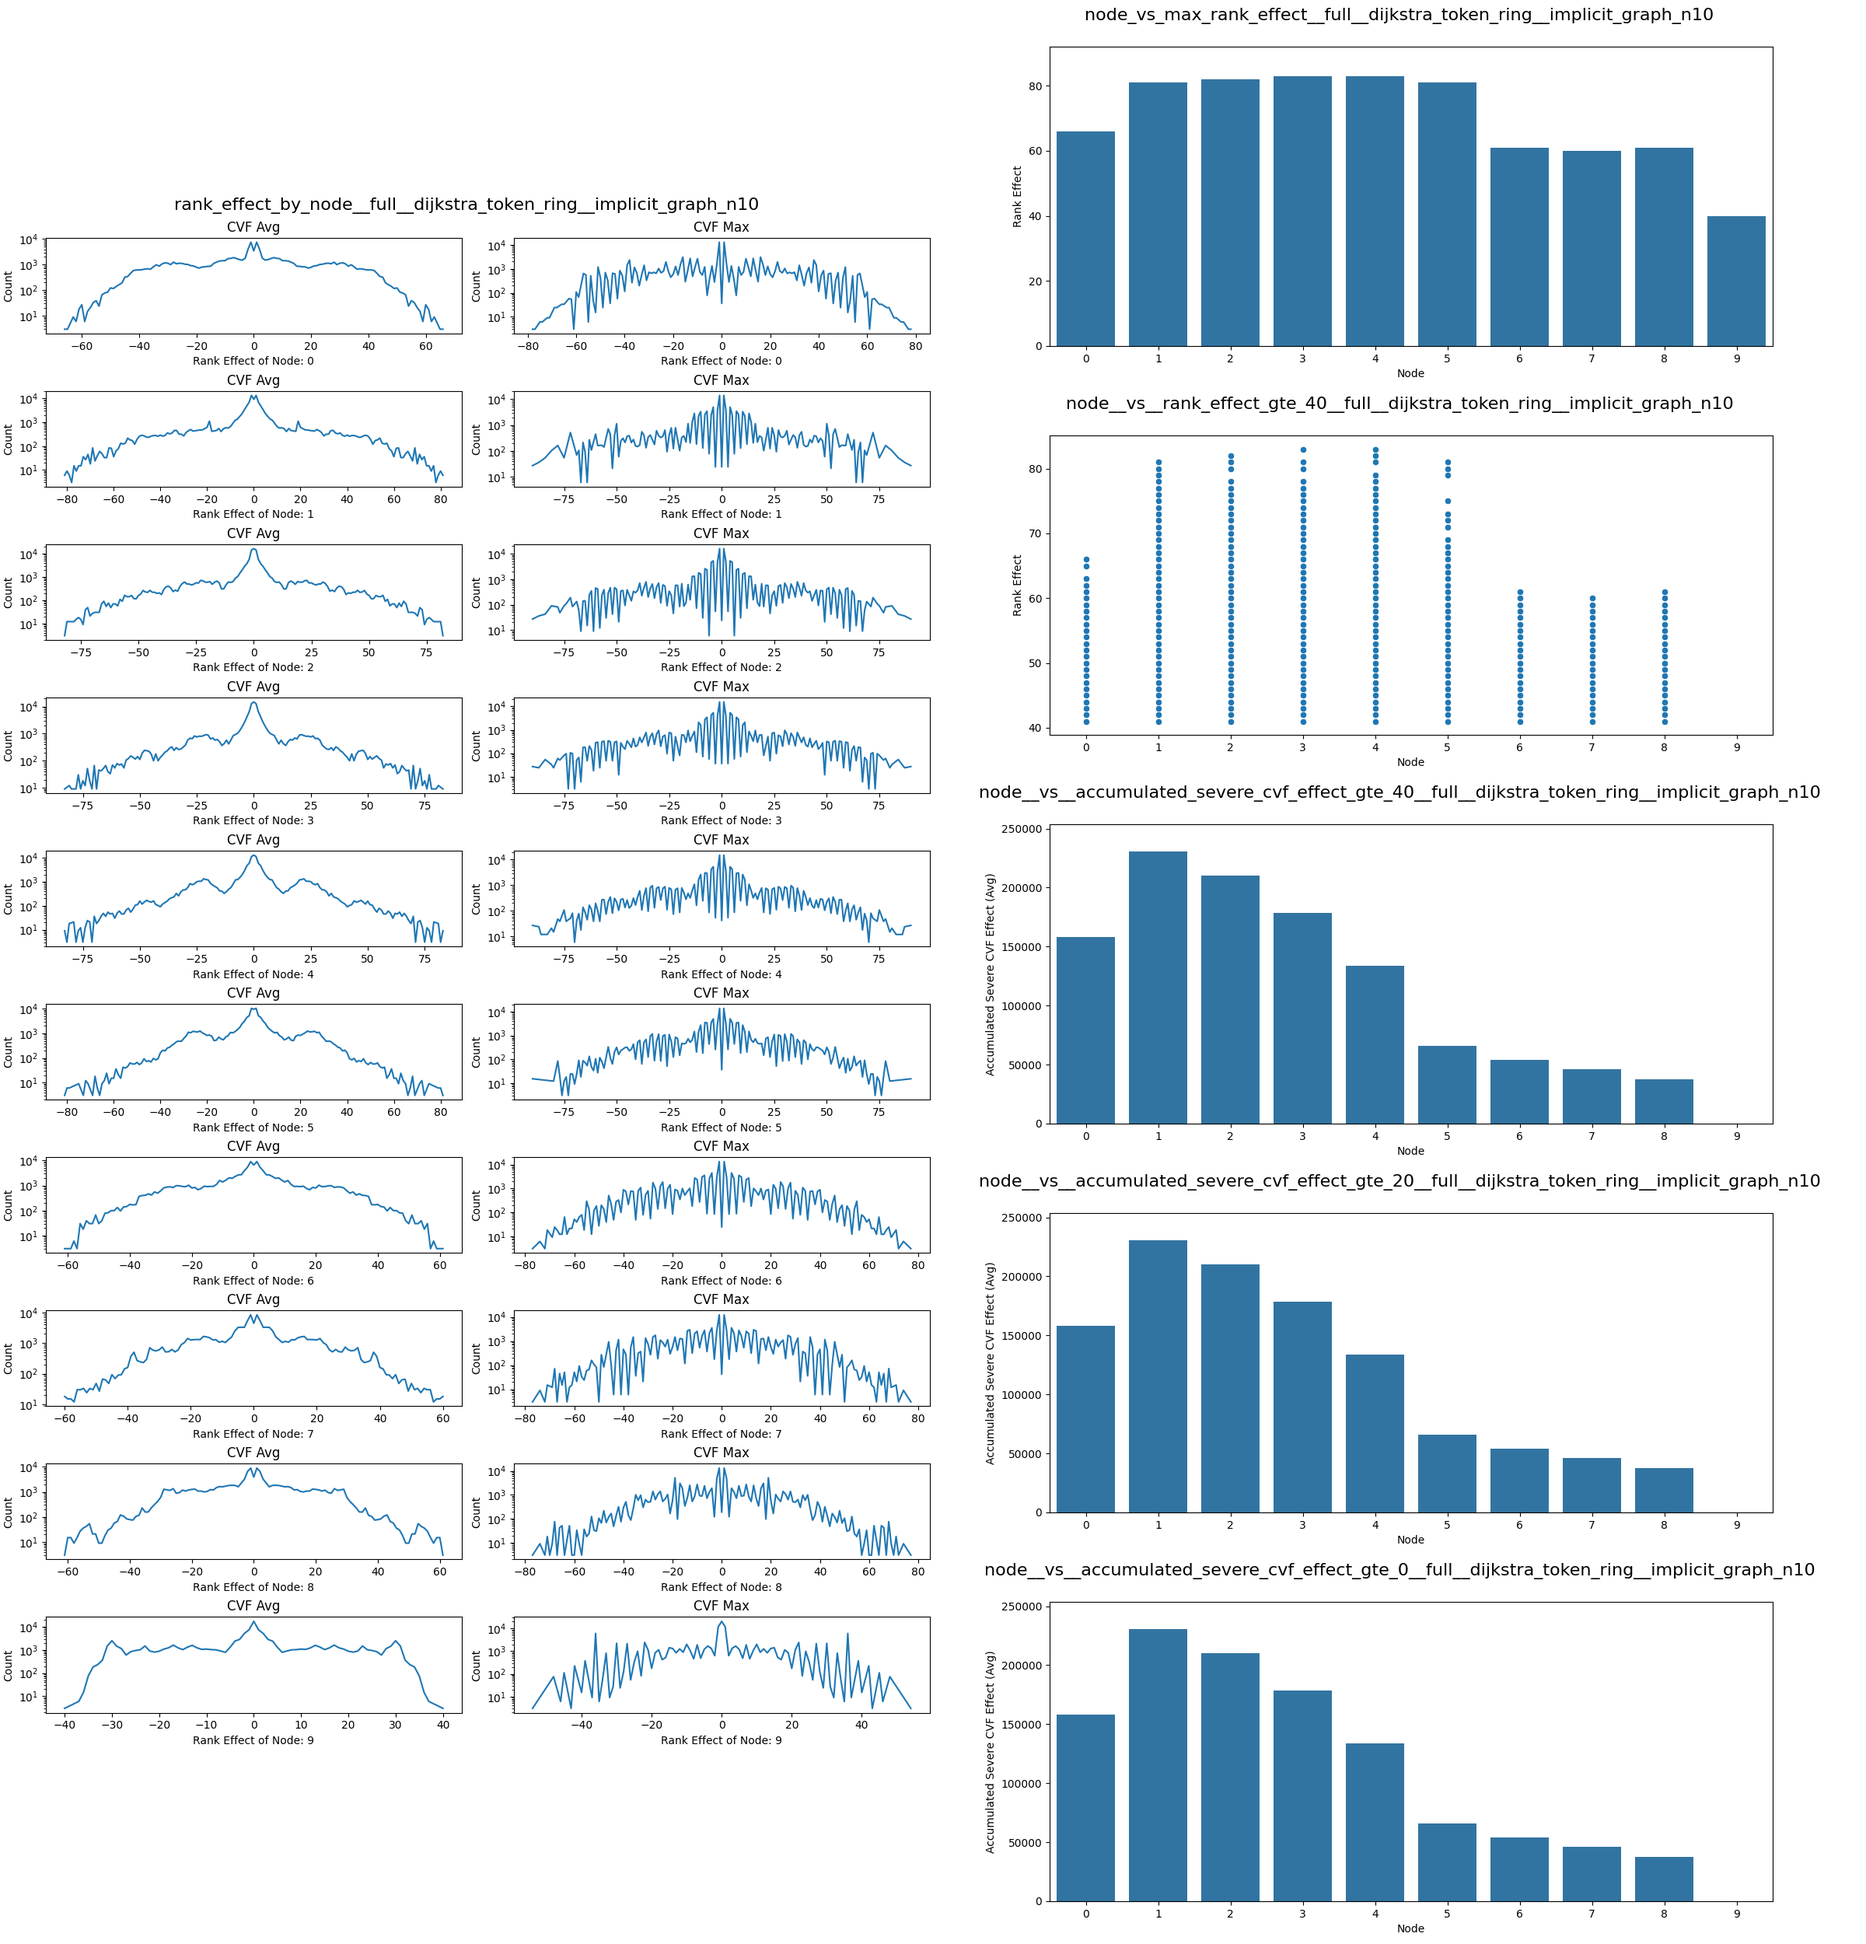
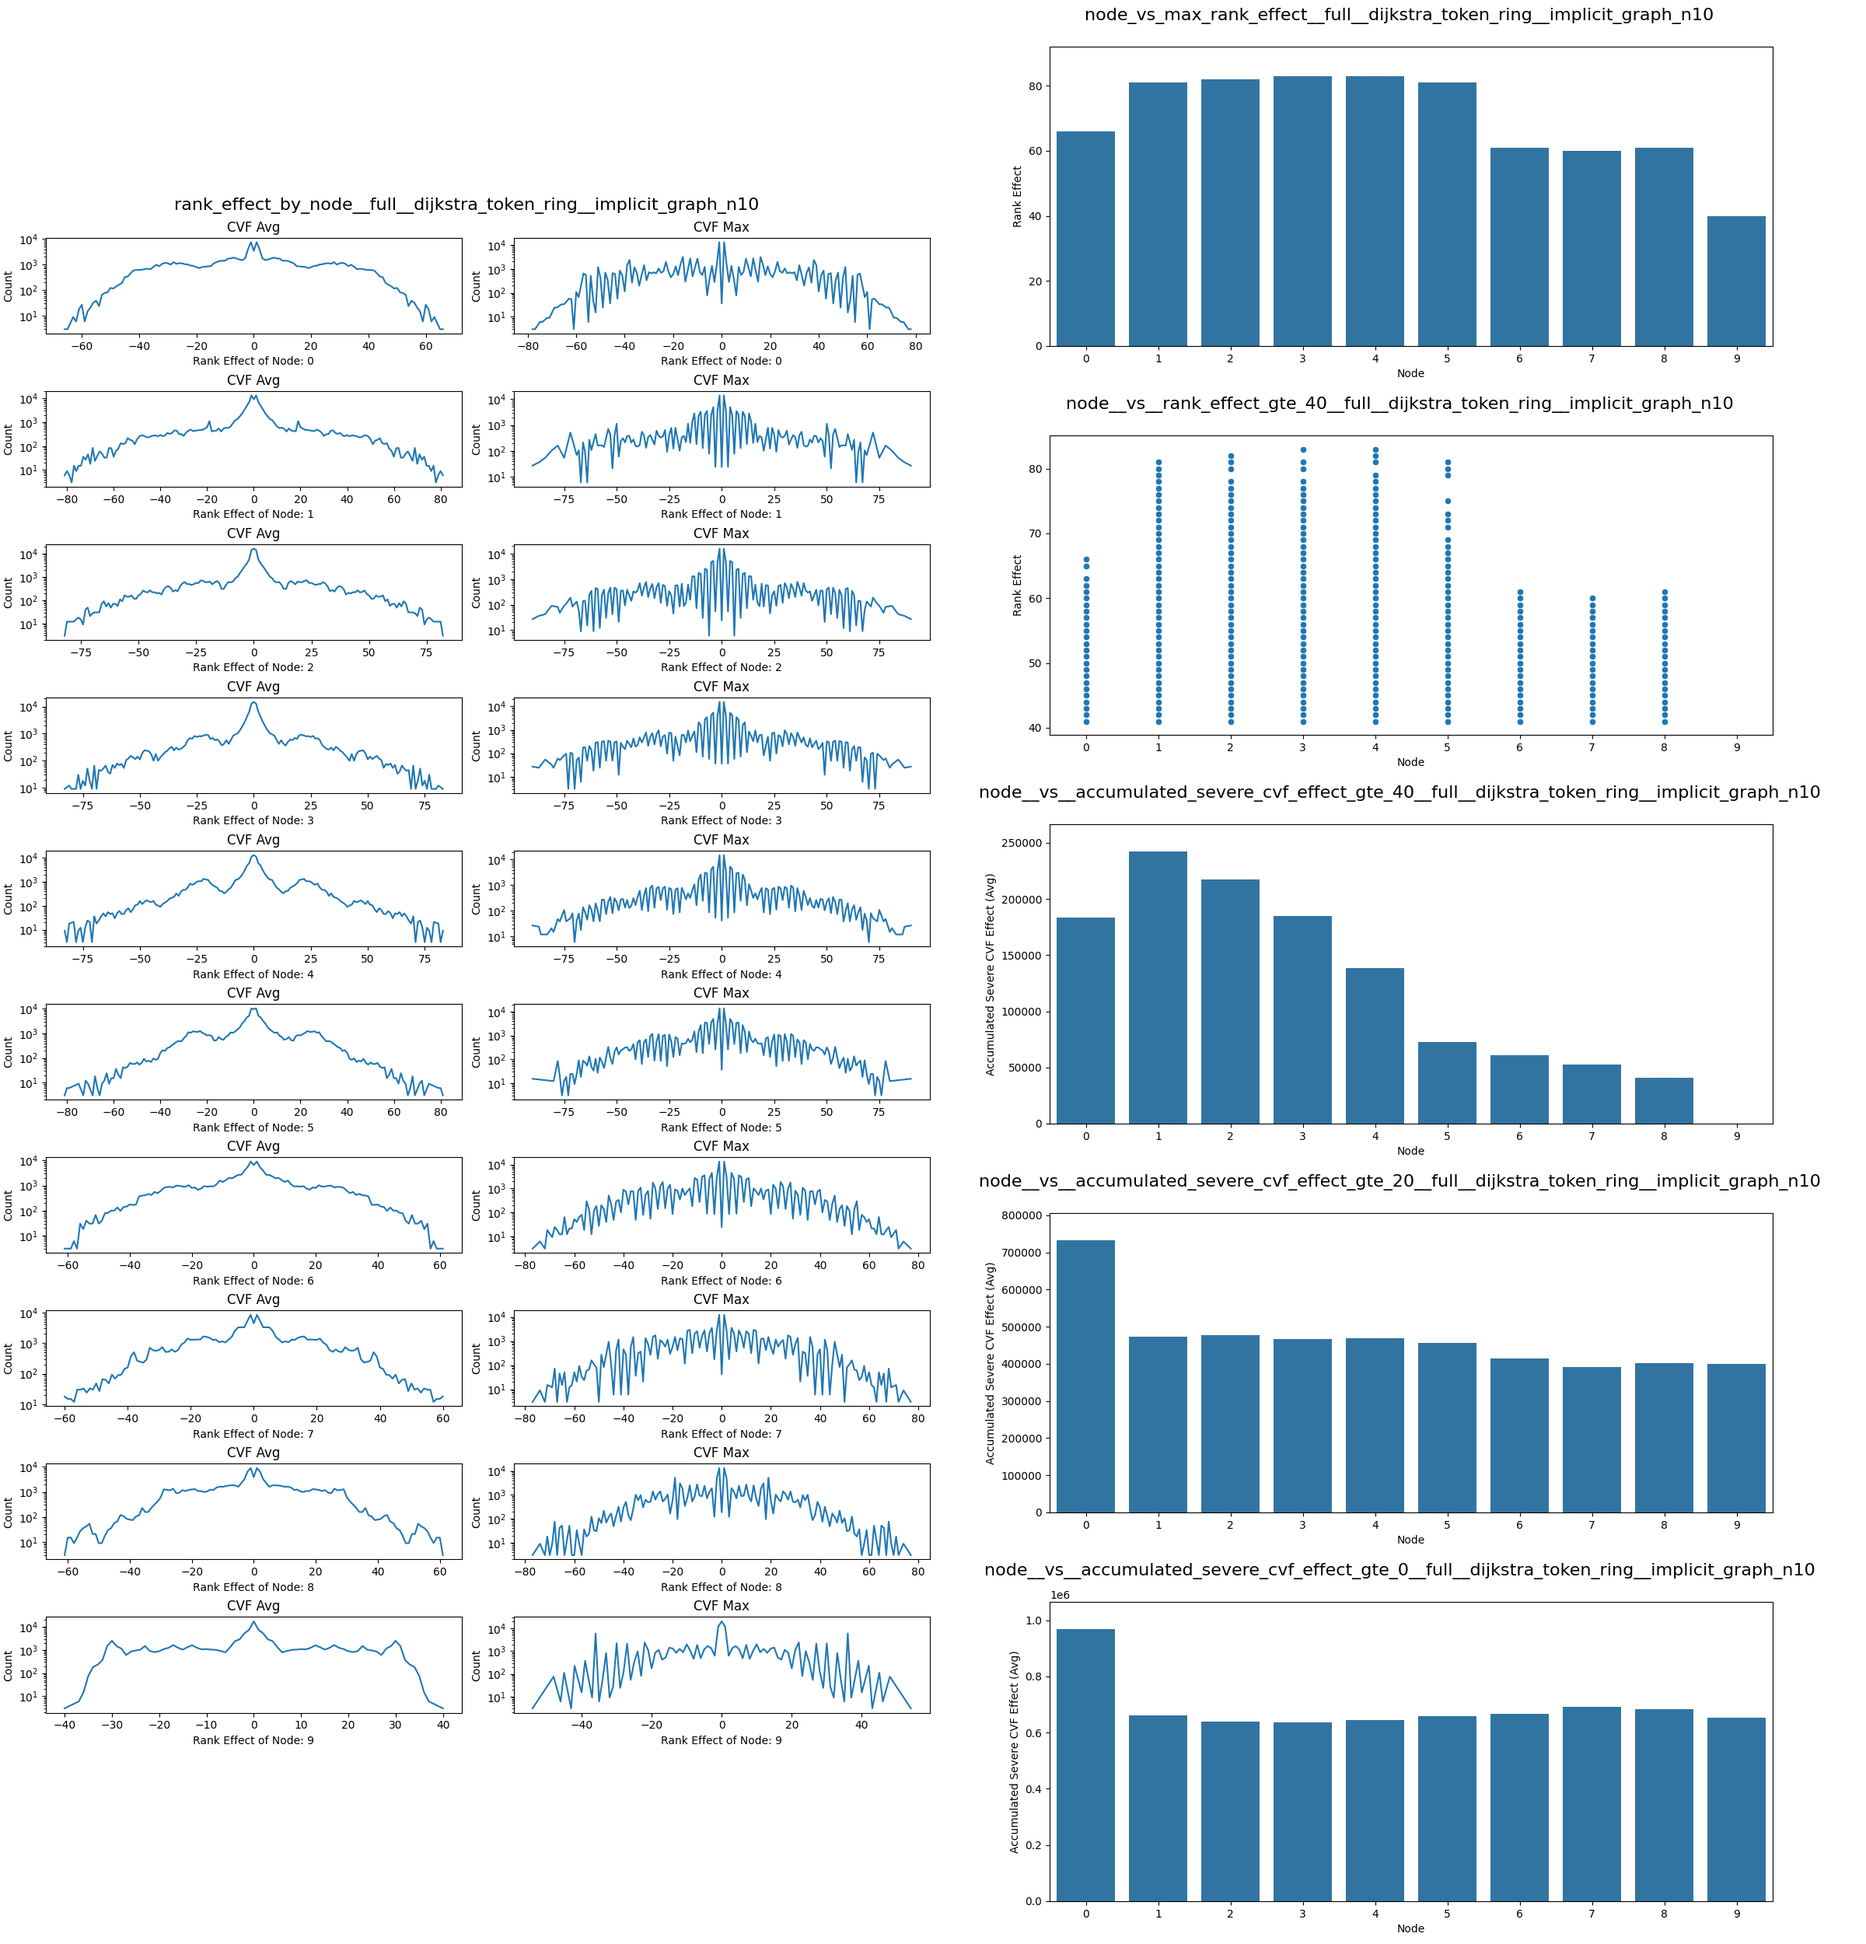
updates

diff --git a/cvf-analysis/analysis/plot_node_vs_accumulated_cvf_effect.py b/cvf-analysis/analysis/plot_node_vs_accumulated_cvf_effect.py
@@ -61,14 +61,16 @@ if __name__ == "__main__":
         if df is None:
             continue
         node_id_max = df.agg({"Node": ["max"]})["Node"]["max"]
-
         for c_off in [cut_off[indx], cut_off[indx] // 2, 0]:
-            df = df[(df["CVF (Avg)"] > 0) & (df["Rank Effect"] > c_off)]
-            df["Accumulated Severe CVF Effect (Avg)"] = df.apply(
+            df_copy = df.copy()
+            df_copy = df_copy[
+                (df_copy["CVF (Avg)"] > 0) & (df_copy["Rank Effect"] >= c_off)
+            ]
+            df_copy["Accumulated Severe CVF Effect (Avg)"] = df.apply(
                 lambda x: x["Rank Effect"] * x["CVF (Avg)"], axis=1
             )
             node_vs_accumulated_cvf_effect = (
-                df.groupby(["Node"])
+                df_copy.groupby(["Node"])
                 .agg({"Accumulated Severe CVF Effect (Avg)": ["sum"]})
                 .droplevel(1, axis=1)
             )
@@ -92,7 +94,6 @@ if __name__ == "__main__":
                     "Accumulated Severe CVF Effect (Avg)"
                 ].max(),
             )
-
             fig.savefig(
                 os.path.join(
                     plots_dir,
